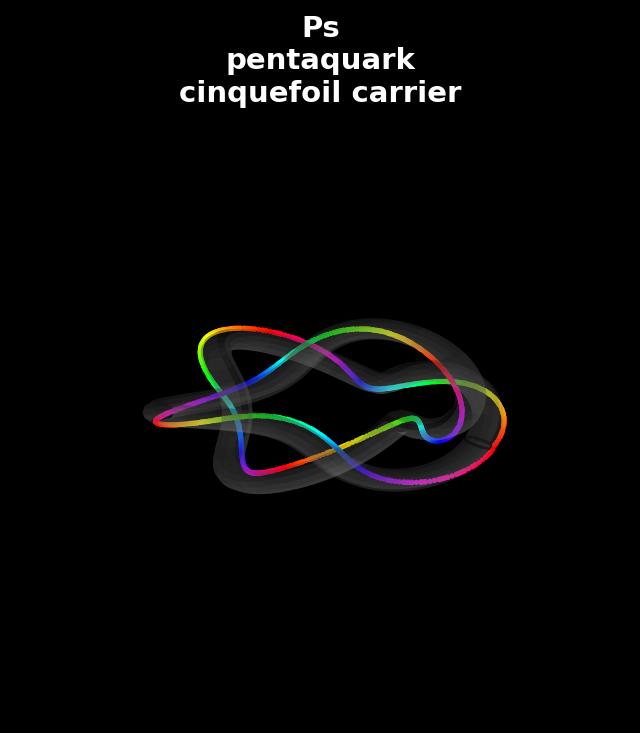
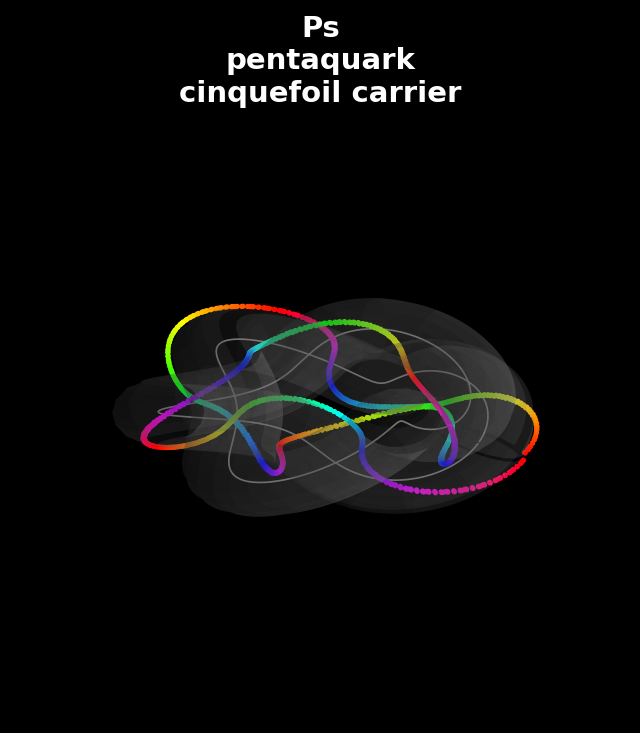
Knot viz v3: fatter tubes, centerline reference, both Hopf resonances
- r_tube increased to 0.35 for dramatic carrier visibility
- White centerline shows where the resonance deviates from the carrier
- Hopf link has resonance on BOTH linked tubes
- (2,1) electron winding is physically correct but subtle (q=1)
- Higher-q particles (proton, J/ψ, pentaquark) show clear spiral

Changed region(s): [[0.2188, 0.3902, 0.8438, 0.7203]]

diff --git a/docs/compendium/knot_viz.py b/docs/compendium/knot_viz.py
@@ -150,7 +150,7 @@ def resonance_on_carrier(centerline, p_res, q_res, r_tube=0.08, N=1000):
     s_idx = (t / (2*np.pi * p_res) * N_carrier).astype(int) % N_carrier
     phi_res = q_res * t / p_res  # poloidal angle
 
-    r_res = r_tube * 1.05  # slightly above the tube surface
+    r_res = r_tube * 1.08  # on the tube surface
 
     rx = pts[0, s_idx] + r_res * (np.cos(phi_res) * normals[0, s_idx] +
                                     np.sin(phi_res) * binormals[0, s_idx])
@@ -176,7 +176,7 @@ def render_particle(carrier_type, p_res, q_res, symbol, label,
     ax = fig.add_subplot(111, projection='3d', facecolor='black')
 
     R = 1.0
-    r_tube = 0.12
+    r_tube = 0.35  # fat tube so the poloidal spiral is dramatic
 
     if carrier_type == 'unknot':
         cl, _ = circle_centerline(R)
@@ -188,7 +188,7 @@ def render_particle(carrier_type, p_res, q_res, symbol, label,
         cl, _ = cinquefoil_centerline(R, a=0.30)
         carriers = [cl]
     elif carrier_type == 'hopf':
-        c1, c2, _ = hopf_link_centerlines(R, r_sep=0.5)
+        c1, c2, _ = hopf_link_centerlines(R, r_sep=0.55)
         carriers = [c1, c2]
     else:
         cl, _ = circle_centerline(R)
@@ -196,18 +196,23 @@ def render_particle(carrier_type, p_res, q_res, symbol, label,
 
     # Draw carrier tube(s) in gray
     for cl in carriers:
-        X, Y, Z = tube_around_curve(cl, r_tube=r_tube, N_circ=12)
-        ax.plot_surface(X, Y, Z, alpha=0.25, color='#888888',
-                        shade=True, edgecolor='none',
-                        lightsource=plt.matplotlib.colors.LightSource(azdeg=315, altdeg=45))
+        X, Y, Z = tube_around_curve(cl, r_tube=r_tube, N_circ=16)
+        ax.plot_surface(X, Y, Z, alpha=0.20, color='#888888',
+                        shade=True, edgecolor='none')
 
-    # Draw resonance winding on the first carrier
-    rx, ry, rz, colors = resonance_on_carrier(
-        carriers[0], p_res, q_res, r_tube=r_tube, N=1500)
+    # Draw carrier centerline (thin white reference line)
+    for cl in carriers:
+        ax.plot(cl[0], cl[1], cl[2], color='white', linewidth=0.8,
+                alpha=0.5)
 
-    for i in range(0, len(rx) - 1, 2):
-        ax.plot(rx[i:i+2], ry[i:i+2], rz[i:i+2],
-                color=colors[i], linewidth=2.5, solid_capstyle='round')
+    # Draw resonance winding on each carrier
+    for cl in carriers:
+        rx, ry, rz, colors = resonance_on_carrier(
+            cl, p_res, q_res, r_tube=r_tube, N=2000)
+
+        for i in range(0, len(rx) - 1, 2):
+            ax.plot(rx[i:i+2], ry[i:i+2], rz[i:i+2],
+                    color=colors[i], linewidth=2.5, solid_capstyle='round')
 
     # Styling
     lim = 1.6 * R
@@ -268,7 +273,7 @@ def render_gallery():
         ax.set_facecolor('black')
 
         R = 1.0
-        r_tube = 0.12
+        r_tube = 0.35
 
         if carrier == 'unknot':
             cl, _ = circle_centerline(R)
@@ -280,19 +285,24 @@ def render_gallery():
             cl, _ = cinquefoil_centerline(R, a=0.30)
             cls = [cl]
         elif carrier == 'hopf':
-            c1, c2, _ = hopf_link_centerlines(R, r_sep=0.5)
+            c1, c2, _ = hopf_link_centerlines(R, r_sep=0.55)
             cls = [c1, c2]
 
         for cl in cls:
-            X, Y, Z = tube_around_curve(cl, r_tube=r_tube, N_circ=10)
-            ax.plot_surface(X, Y, Z, alpha=0.25, color='#888888',
+            X, Y, Z = tube_around_curve(cl, r_tube=r_tube, N_circ=12)
+            ax.plot_surface(X, Y, Z, alpha=0.20, color='#888888',
                             shade=True, edgecolor='none')
 
-        rx, ry, rz, colors = resonance_on_carrier(
-            cls[0], p, q, r_tube=r_tube, N=800)
-        for i in range(0, len(rx) - 1, 3):
-            ax.plot(rx[i:i+2], ry[i:i+2], rz[i:i+2],
-                    color=colors[i], linewidth=2.0)
+        for cl in cls:
+            ax.plot(cl[0], cl[1], cl[2], color='white', linewidth=0.6,
+                    alpha=0.4)
+
+        for cl in cls:
+            rx, ry, rz, colors = resonance_on_carrier(
+                cl, p, q, r_tube=r_tube, N=1000)
+            for i in range(0, len(rx) - 1, 2):
+                ax.plot(rx[i:i+2], ry[i:i+2], rz[i:i+2],
+                        color=colors[i], linewidth=2.0)
 
         lim = 1.6
         ax.set_xlim(-lim, lim)
